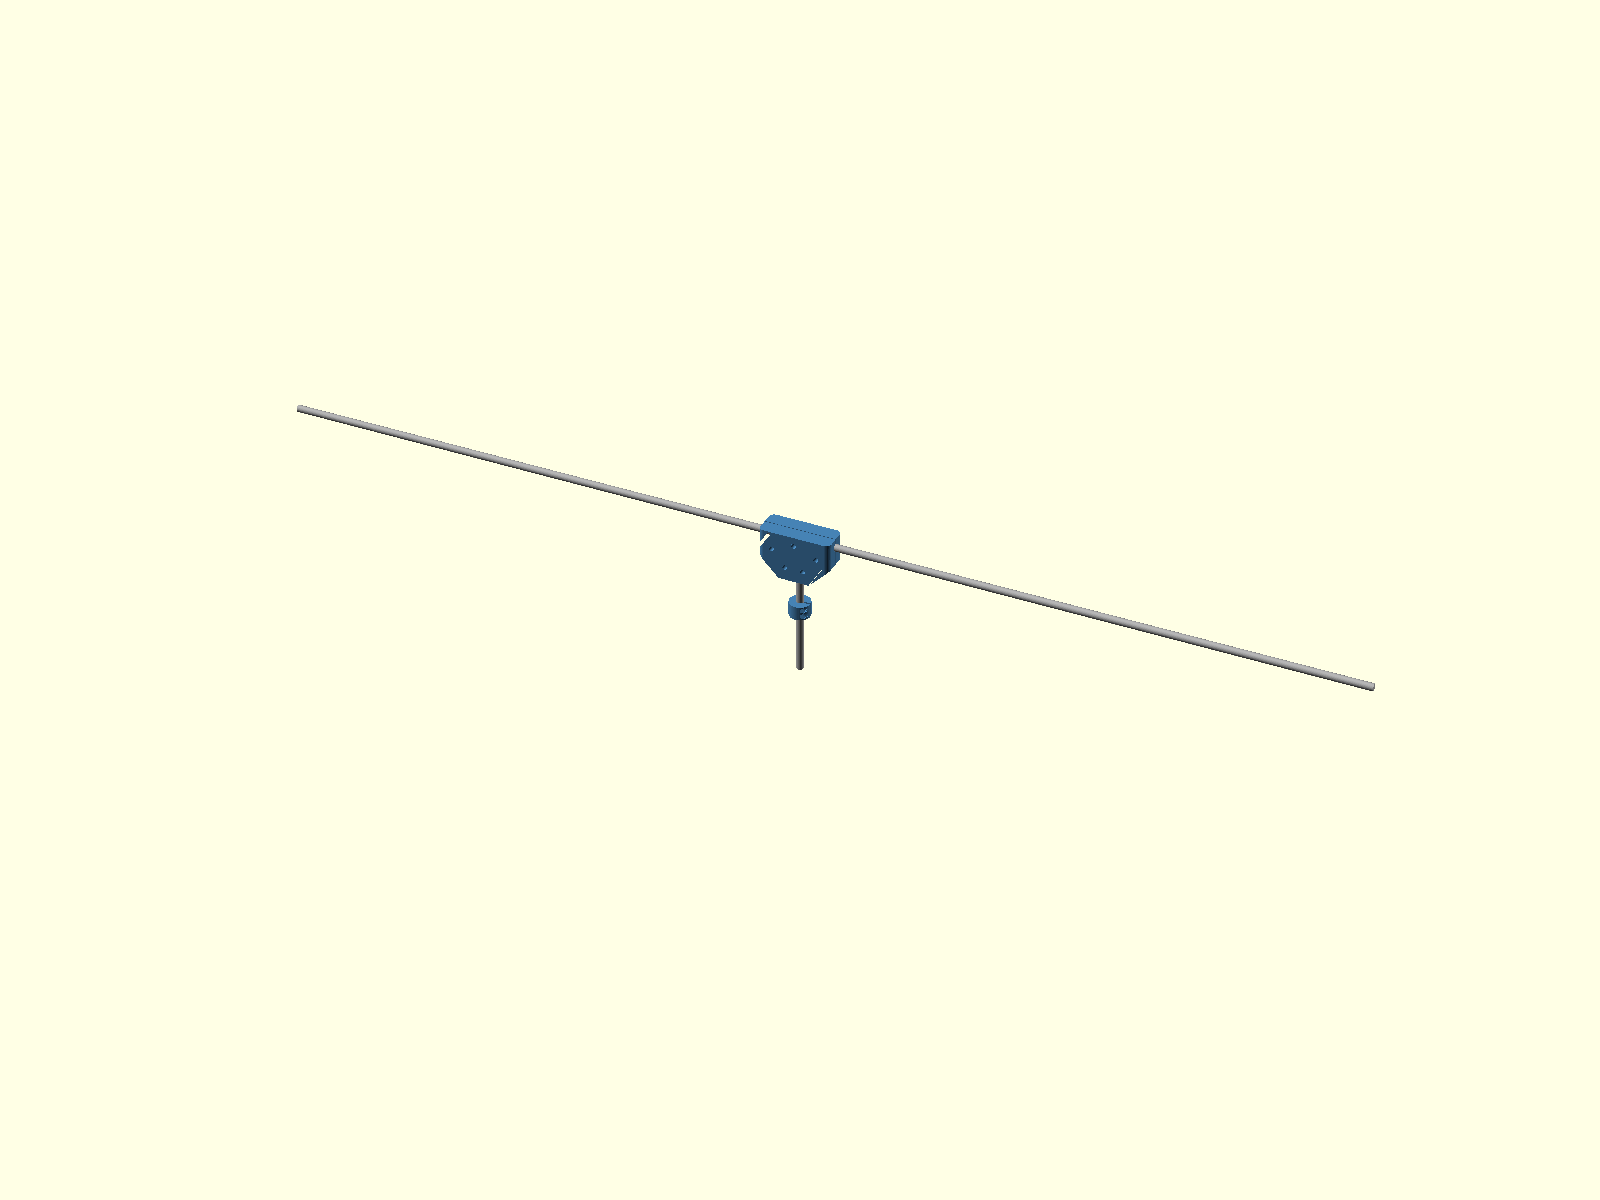
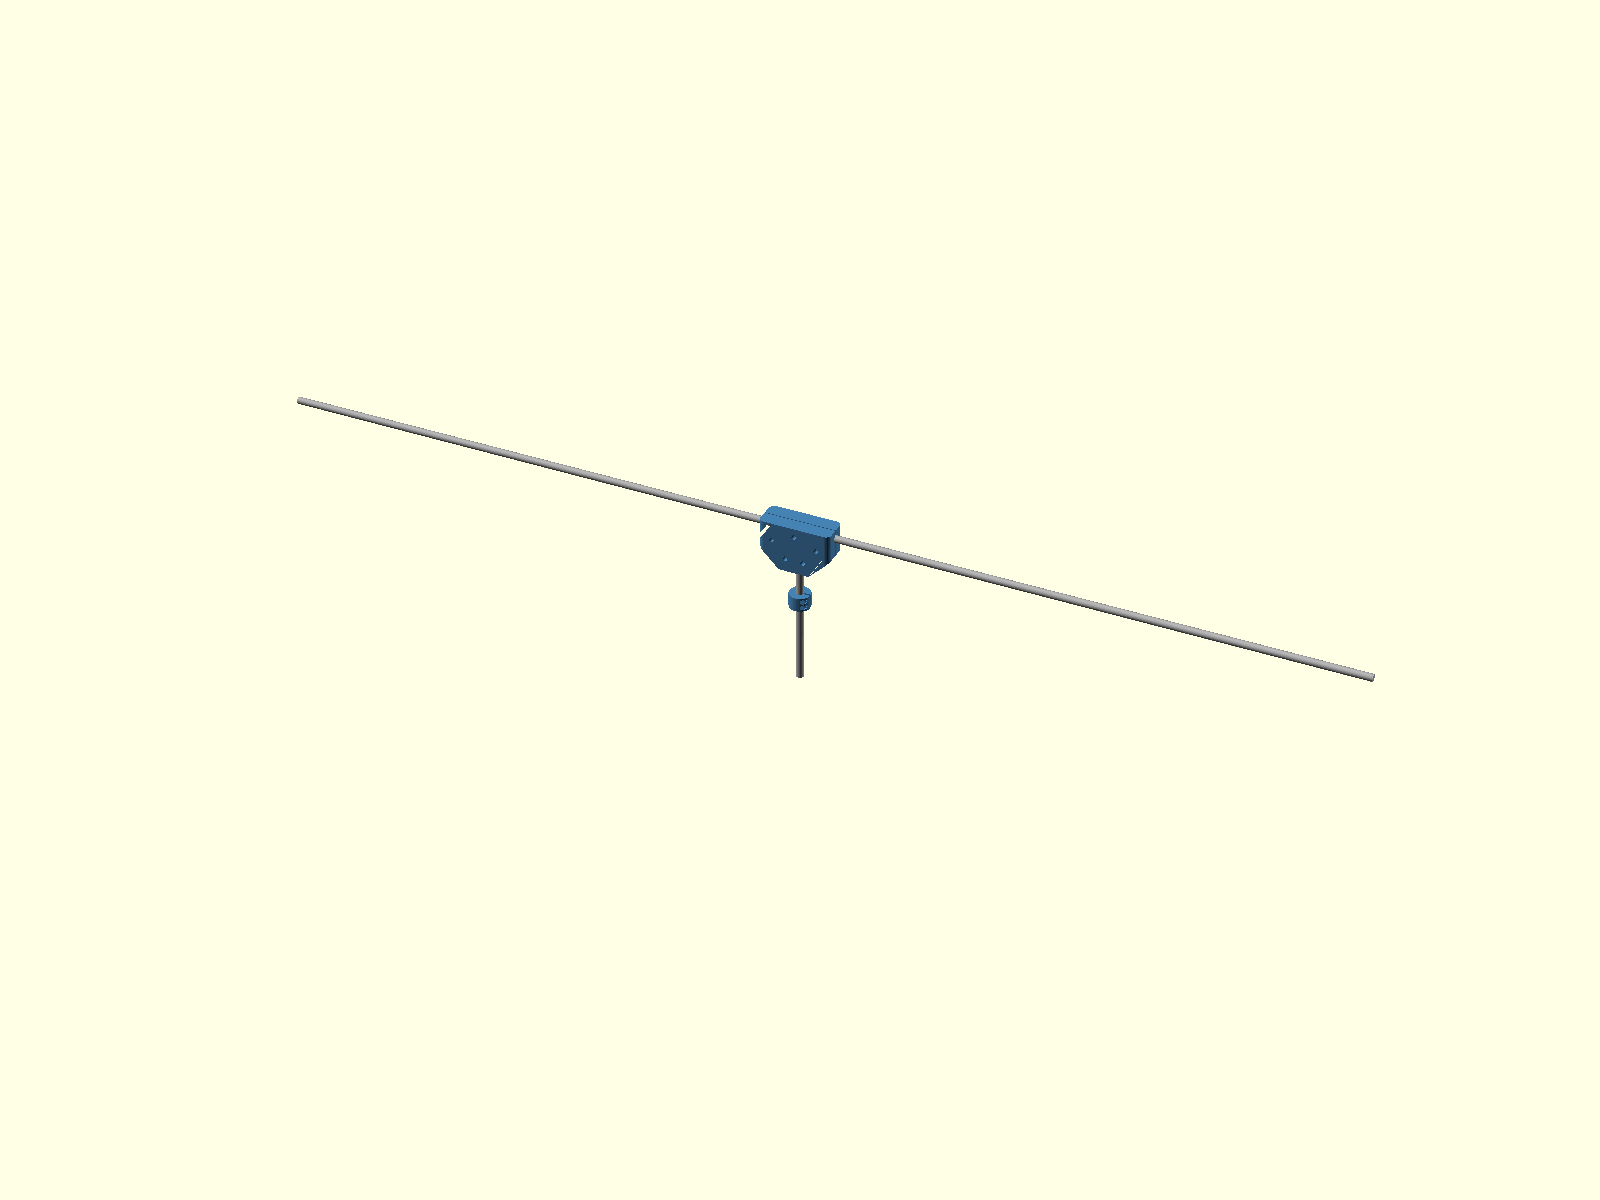
Uplift retainer: second collar under the bottom bearing
Nothing previously resisted upward motion of the shaft: the rotor sat
in its bearings by gravity alone, and a wave slam or gust that unloads
it could walk the shaft out of the tower. A second plain collar (the
same printed part as the thrust collar) now clamps boss-up under the
bottom bearing's inner race with 1 mm of running clearance: it carries
nothing in normal running, catches the inner race on any uplift, keeps
the bottom bearing captive, and turns a slipped thrust collar into a
1 mm drop instead of a rotor on the plank.

The shaft grows to 172 mm and its tip hangs 20 mm below the base in a
30 mm hole the user drills in the plank (now the only hole in the
build); the plank must be 25 mm or thicker. Rotor height and all other
stations are unchanged, and no printed part geometry changed.

geometry_check gains five retainer checks (running clearance, grip,
hole clearance, plank thickness, screw margin). Step 3 of the assembly
guide now mounts the rotor with the base on 20 mm blocks and clamps
both collars before the base is screwed down; regen_all gains per-step
camera overrides so the step 3 image is a close-up of that pose.

Changed region(s): [[0.375, 0.4008, 0.875, 0.5858], [0.1875, 0.3083, 0.2812, 0.37], [0.2812, 0.37, 0.375, 0.4008]]

diff --git a/scripts/geometry_check.py b/scripts/geometry_check.py
@@ -52,6 +52,29 @@ def main():
           "thrust collar boss",
           f"boss {P['collar_boss_d']} rides inside the {P['bearing_inner_shoulder_d']} inner shoulder")
 
+    # --- uplift retainer: second plain collar under the bottom bearing,
+    #     boss up with running clearance; loaded only when something
+    #     unloads the rotor (wave slam, gust), and then only through the
+    #     bottom bearing's races ---
+    check(ok, 0.5 <= P["retainer_gap"] <= 2, "retainer running clearance",
+          f"{P['retainer_gap']} mm between boss and bottom inner race"
+          " (0.5 .. 2: never loaded in normal running, catches early)")
+    retainer_bottom = (P["pocket_recess"] - P["retainer_gap"]
+                       - P["collar_boss_h"] - P["collar_w"])
+    tip_proud = retainer_bottom + P["shaft_tip_drop"]
+    check(ok, tip_proud >= 1, "retainer grip on the shaft",
+          f"tip stands {tip_proud:.1f} mm proud below the collar"
+          " (>= 1: the full clamp width is on the rod)")
+    check(ok, P["plank_hole_d"] >= P["collar_od"] + 4, "plank hole width",
+          f"hole {P['plank_hole_d']} around collar {P['collar_od']}"
+          " (>= 4 mm total clearance, nothing rotating touches wood)")
+    check(ok, P["plank_min_t"] >= P["shaft_tip_drop"] + 2, "plank thickness",
+          f"{P['plank_min_t']} mm holds the {P['shaft_tip_drop']} mm tip drop"
+          " inside the hole (>= 2 mm spare)")
+    wood = (P["screw_circle_d"] - P["plank_hole_d"]) / 2
+    check(ok, wood >= 15, "plank hole clears the wood screws",
+          f"{wood:.1f} mm of wood between hole edge and screw circle (>= 15)")
+
     # --- hub walls around the grooves (clamshell: plain round grooves,
     #     printed open-face-up, so no teardrop crown anywhere here) ---
     web = (P["hub_arm_z"] - P["rod_snug_d"] / 2) - P["hub_shaft_socket"]
@@ -93,7 +116,7 @@ def main():
           " rods not plastic (0.4 .. 2)")
 
     # --- vertical stack: shaft, collar working room, vane ground clearance ---
-    shaft_top = P["shaft_bottom_gap"] + P["shaft_length"]
+    shaft_top = P["shaft_length"] - P["shaft_tip_drop"]
     hub_bottom = shaft_top - P["hub_shaft_socket"]
     arm_z = hub_bottom + P["hub_arm_z"]
     collar_room = hub_bottom - (P["tower_h"] - P["pocket_recess"]

diff --git a/scripts/regen_all.py b/scripts/regen_all.py
@@ -54,6 +54,11 @@ NON_PARTS = {"main_assembly", "design_params", "bearing_608", "hub"}
 VERSION_FILE = ROOT / "stl" / "openscad_version.txt"
 # docs/assembly.md's images: main_assembly.scad rendered at each step
 ASSEMBLY_STEPS = range(1, 6)
+# Per-step camera overrides (render_scad skips --viewall/--autocenter when
+# a --camera is passed). Step 3 is a close-up under the flange: the base
+# stands on blocks and the uplift retainer is clamped below the bottom
+# bearing, none of which reads from the default whole-rotor view.
+STEP_CAMERAS = {3: ["--camera=0,0,15,78,0,25,520"]}
 
 
 def parts():
@@ -129,7 +134,7 @@ def main(argv):
             for n in ASSEMBLY_STEPS:
                 committed = ROOT / "docs" / "assembly" / f"step{n}.png"
                 ok &= run_one(assembly, *target(committed),
-                              extra=["-D", f"step={n}"])
+                              extra=["-D", f"step={n}"] + STEP_CAMERAS.get(n, []))
 
     if check and not only:
         expected = {f"{p.stem}.stl" for p in parts()}

diff --git a/docs/assembly.md b/docs/assembly.md
@@ -1,10 +1,13 @@
 # Assembly guide
 
 What you need at the bench: the printed parts (see the BOM in the
-README), the two 608 bearings, the three rod pieces (1x 150 mm, 2x
+README), the two 608 bearings, the three rod pieces (1x 172 mm, 2x
 600 mm of 8 mm aluminum), the M5 clamp bolts with wide washers and the
-M3 bolts, all with nyloc nuts, four wood screws, and screwdrivers or
-hex keys to suit. No drill, no vise: nothing gets drilled anywhere.
+M3 bolts, all with nyloc nuts, four wood screws, screwdrivers or hex
+keys to suit, a 30 mm spade or forstner bit for the plank, and
+something about 1 mm thick (a folded business card, a feeler gauge)
+for setting the retainer gap. No rod or printed part is ever drilled;
+the one hole in the whole build is the retainer hole in the plank.
 
 Two joint types cover the whole build, and both are clamps. The hub
 is a clamshell: lay the rods into the grooves and bolt the halves
@@ -24,17 +27,25 @@ always match the current parameters.
 Press one bearing into the pocket on top of the tower and one into the
 pocket underneath, both flush to their recess floors. If the fit
 fights you, recheck `bearing_press_d` with the calibration gauge
-instead of forcing it. Screw the base to the plank with the four wood
-screws; the plank itself keeps the bottom bearing captive.
+instead of forcing it.
+
+Drill a 30 mm hole through the plank where the tower will stand: the
+shaft tip and its retainer collar hang inside it. The plank must be at
+least 25 mm thick so they stay within it even when the plank lies on a
+solid surface. Do NOT screw the base down yet — that happens at the
+end of step 3, after the retainer collar is clamped underneath. (The
+retainer is also what keeps the bottom bearing captive.)
 
 ![step 1](assembly/step1.png)
 
 ## 2. Rotor core, clamped in the clamshell
 
 This all happens on the bench, and nothing is drilled. First slide
-the plain collar (the one without a wedge) onto the shaft from one
-end and leave it loose; it cannot pass the hub later, so it must be
-on the shaft now.
+ONE of the two plain collars (the ones without a wedge) onto the
+shaft and leave it loose: this is the thrust collar, and it cannot
+pass the hub later, so it must be on the shaft now. The other plain
+collar is the uplift retainer; it stays off for now and goes on from
+below in step 3, because it cannot pass the bearings.
 
 Lay the hub front half (the one with the pegs) split face up and set
 the rods into its grooves: shaft into the center groove until it
@@ -51,16 +62,29 @@ means something is not seated.
 
 ![step 2](assembly/step2.png)
 
-## 3. Mount the rotor, clamp the thrust collar
+## 3. Mount the rotor, clamp both shaft collars
 
-Lower the shaft through both bearings and rest its tip on a roughly
-2 mm spacer on the plank (a couple of coins). Slide the collar down,
-boss DOWN, until the boss sits on the top bearing's inner race, and
-tighten its two clamp bolts evenly. Remove the spacer. The whole
-rotor now hangs on this collar, and the shaft tip hovers clear of
-the plank. This clamp carries the rotor's weight, so give its bolts
-a deliberate, even torque, and if it ever does slip, the failure is
-gentle: the shaft settles onto the plank and the rotor stops.
+Stand the base on two blocks about 20 mm tall so the shaft tip can
+protrude underneath; the two printed end caps are exactly that height
+and are not needed until step 4. Lower the shaft through both
+bearings until its tip rests on the bench. Slide the thrust collar
+down, boss DOWN, until the boss sits on the top bearing's inner race,
+and tighten its two clamp bolts evenly. The whole rotor now hangs on
+this collar, so give its bolts a deliberate, even torque.
+
+Now the retainer: slide the second plain collar onto the shaft tip
+from below, boss UP, and push it up until about 1 mm short of the
+bottom bearing's inner race — hold the folded business card between
+boss and race, push the collar against it, tighten both bolts, pull
+the card out. The gap matters: the retainer must touch nothing while
+the rotor runs. Its job is to catch the inner race if a wave or a
+gust unloads the rotor, so the shaft can never lift out of its
+bearings, and it keeps the bottom bearing captive. It also makes the
+old failure mode gentler: if the thrust collar ever slips, the
+retainer picks the rotor up after a millimeter of drop.
+
+Lift the whole assembly onto the plank, tip and retainer into the
+hole, and drive the four wood screws.
 
 ![step 3](assembly/step3.png)
 

diff --git a/README.md b/README.md
@@ -22,18 +22,25 @@ the driving vane bangs against its stop — free percussion.
 
 The rotor rides on two 608 skateboard bearings spaced 45 mm apart in the
 base tower, so the 1.2 m span runs true. All rotating weight hangs on a
-collar clamped to the shaft, resting on the top bearing's inner race.
+collar clamped to the shaft, resting on the top bearing's inner race. A
+second collar clamped under the bottom bearing, a millimeter clear of
+its inner race, is the uplift retainer: it carries nothing while the
+rotor runs, but a wave slam or a gust that unloads the rotor cannot
+lift the shaft out of its bearings.
 
 ## Bill of materials
 
 - printed: 1 base, 1 hub front + 1 hub back (a clamshell), 2 vanes,
-  2 end caps, 2 arm collars, 1 plain collar (see `stl/`)
+  2 end caps, 2 arm collars, 2 plain collars (thrust and uplift
+  retainer, the same part; see `stl/`)
 - 2x 608 bearing (8x22x7 — any skateboard bearing, shielded preferred)
-- 8 mm aluminum rod: 1x 150 mm (shaft), 2x 600 mm (arms)
+- 8 mm aluminum rod: 1x 172 mm (shaft), 2x 600 mm (arms)
 - 5x M5x40 bolt + nyloc + 2 wide washers each (the hub clamshell; no
   drilling there)
-- 10x M3x16 bolt + nyloc (the dual-bolt clamps: 3 collars, 2 caps)
-- 4x 4.2 mm wood screws, and a plank to screw the base onto
+- 12x M3x16 bolt + nyloc (the dual-bolt clamps: 4 collars, 2 caps)
+- 4x 4.2 mm wood screws, and a plank to screw the base onto: at least
+  25 mm thick, with a 30 mm hole under the tower where the shaft tip
+  and the retainer collar hang
 
 ## Calibration before printing the real parts
 
@@ -50,13 +57,16 @@ Printers and filaments vary; the three fits are measured, not guessed:
 ## Assembly
 
 Step-by-step guide with rendered images: [docs/assembly.md](docs/assembly.md).
-The short version: base and bearings onto the plank; shaft and arms
-laid into the hub clamshell and bolted; thrust collar and vane
-hardware slid to position and clamped. No rod is ever drilled and no
-joint is permanent: the hub is a clamshell, everything else is a wide
-dual-bolt slit clamp, so every position and stop angle can be reset
-by loosening two bolts. Re-torque the clamps at the start of each
-season, printed plastic relaxes.
+The short version: bearings into the base and a 30 mm hole in the
+plank; shaft and arms laid into the hub clamshell and bolted; thrust
+and retainer collars clamped with the base on blocks, then the base
+screwed down; vane hardware slid to position and clamped. That plank
+hole is the only hole made in the whole build — no rod or printed
+part is ever drilled — and no joint is permanent: the hub is a
+clamshell, everything else is a wide dual-bolt slit clamp, so every
+position and stop angle can be reset by loosening two bolts.
+Re-torque the clamps at the start of each season, printed plastic
+relaxes.
 
 ## Working on the design
 

diff --git a/CLAUDE.md b/CLAUDE.md
@@ -21,12 +21,20 @@ hardware. No electronics — the wind does everything.
   stops is part of the product.
 - **One rod stock.** Shaft and arms are all 8 mm aluminum rod (the 608
   bore). No second diameter may creep in.
-- **Rotor weight hangs on the thrust collar,** through-bolted to the shaft and
+- **Rotor weight hangs on the thrust collar,** clamped to the shaft and
   riding the top bearing's INNER race (boss stays inside
-  bearing_inner_shoulder_d). Nothing else may take axial load: the hub
-  joint transmits torque only, and no rotating face may touch a static
-  one — recesses (pocket_recess) and bosses exist to keep rubbing rings
-  small and on the right races.
+  bearing_inner_shoulder_d). Nothing else may take axial load in normal
+  running: the hub joint transmits torque only, and no rotating face may
+  touch a static one — recesses (pocket_recess) and bosses exist to keep
+  rubbing rings small and on the right races. The one sanctioned
+  exception is the uplift retainer: a second plain collar boss-up under
+  the bottom bearing, clamped retainer_gap clear of its inner race, so a
+  wave slam or gust that unloads the rotor cannot lift the shaft out of
+  the bearings. It hangs in a plank_hole_d hole in the plank, carries
+  nothing until an uplift event, and only ever loads the bottom
+  bearing's races — never a static face. It also keeps the bottom
+  bearing captive. Never "simplify" the gap to zero (that preloads the
+  bearings) and never delete the retainer.
 - **No rod is ever drilled; every joint is a clamp.** The hub is a
   clamshell split on the plane containing all three rod axes: lay in
   the rods, bolt the halves with M5s and wide washers; the halves must
@@ -88,8 +96,10 @@ Conventions:
 
 - 2x 608 bearing (8x22x7, any skateboard bearing; ZZ shields preferred
   outdoors)
-- 8 mm aluminum rod: one 150 mm shaft + two 600 mm arms
-- 5x M5x40 with wide washers (hub clamshell) and 10x M3x16 (dual-bolt
-  collar and cap clamps), all with nyloc nuts; no drill needed
-  anywhere
-- 4x 4.2 mm wood screws for the plank
+- 8 mm aluminum rod: one 172 mm shaft + two 600 mm arms
+- 5x M5x40 with wide washers (hub clamshell) and 12x M3x16 (dual-bolt
+  collar and cap clamps), all with nyloc nuts; no rod or printed part
+  is ever drilled
+- 4x 4.2 mm wood screws, and a plank at least plank_min_t (25 mm)
+  thick with a plank_hole_d (30 mm) hole under the tower for the
+  shaft tip and retainer collar
